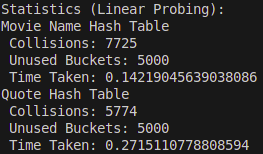
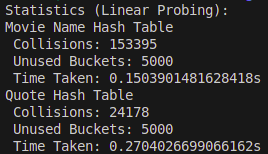
Made linear probing count collisions from iterating through the list and made screenshots include units for time

diff --git a/hashing.py b/hashing.py
@@ -41,12 +41,11 @@ class HashTable:
             self.unused -= 1
             
     def resolveCollision(self, item, index):
-        self.collisions += 1
         while self.ls[index]:
+            self.collisions += 1
             index = (index + 1) % self.length
         self.ls[index] = item
         self.unused -= 1
-            
 
 def main():
     length = 20000
@@ -73,11 +72,11 @@ def main():
     print("Movie Name Hash Table")
     print(f" Collisions: {name_hashtable.collisions}")
     print(f" Unused Buckets: {name_hashtable.unused}")
-    print(f" Time Taken: {name_end_time-name_start_time}")
+    print(f" Time Taken: {name_end_time-name_start_time}s")
     print("Quote Hash Table")
     print(f" Collisions: {quote_hashtable.collisions}")
     print(f" Unused Buckets: {quote_hashtable.unused}")
-    print(f" Time Taken: {quote_end_time-quote_start_time}")
+    print(f" Time Taken: {quote_end_time-quote_start_time}s")
         
 if __name__ == '__main__':
     main()
